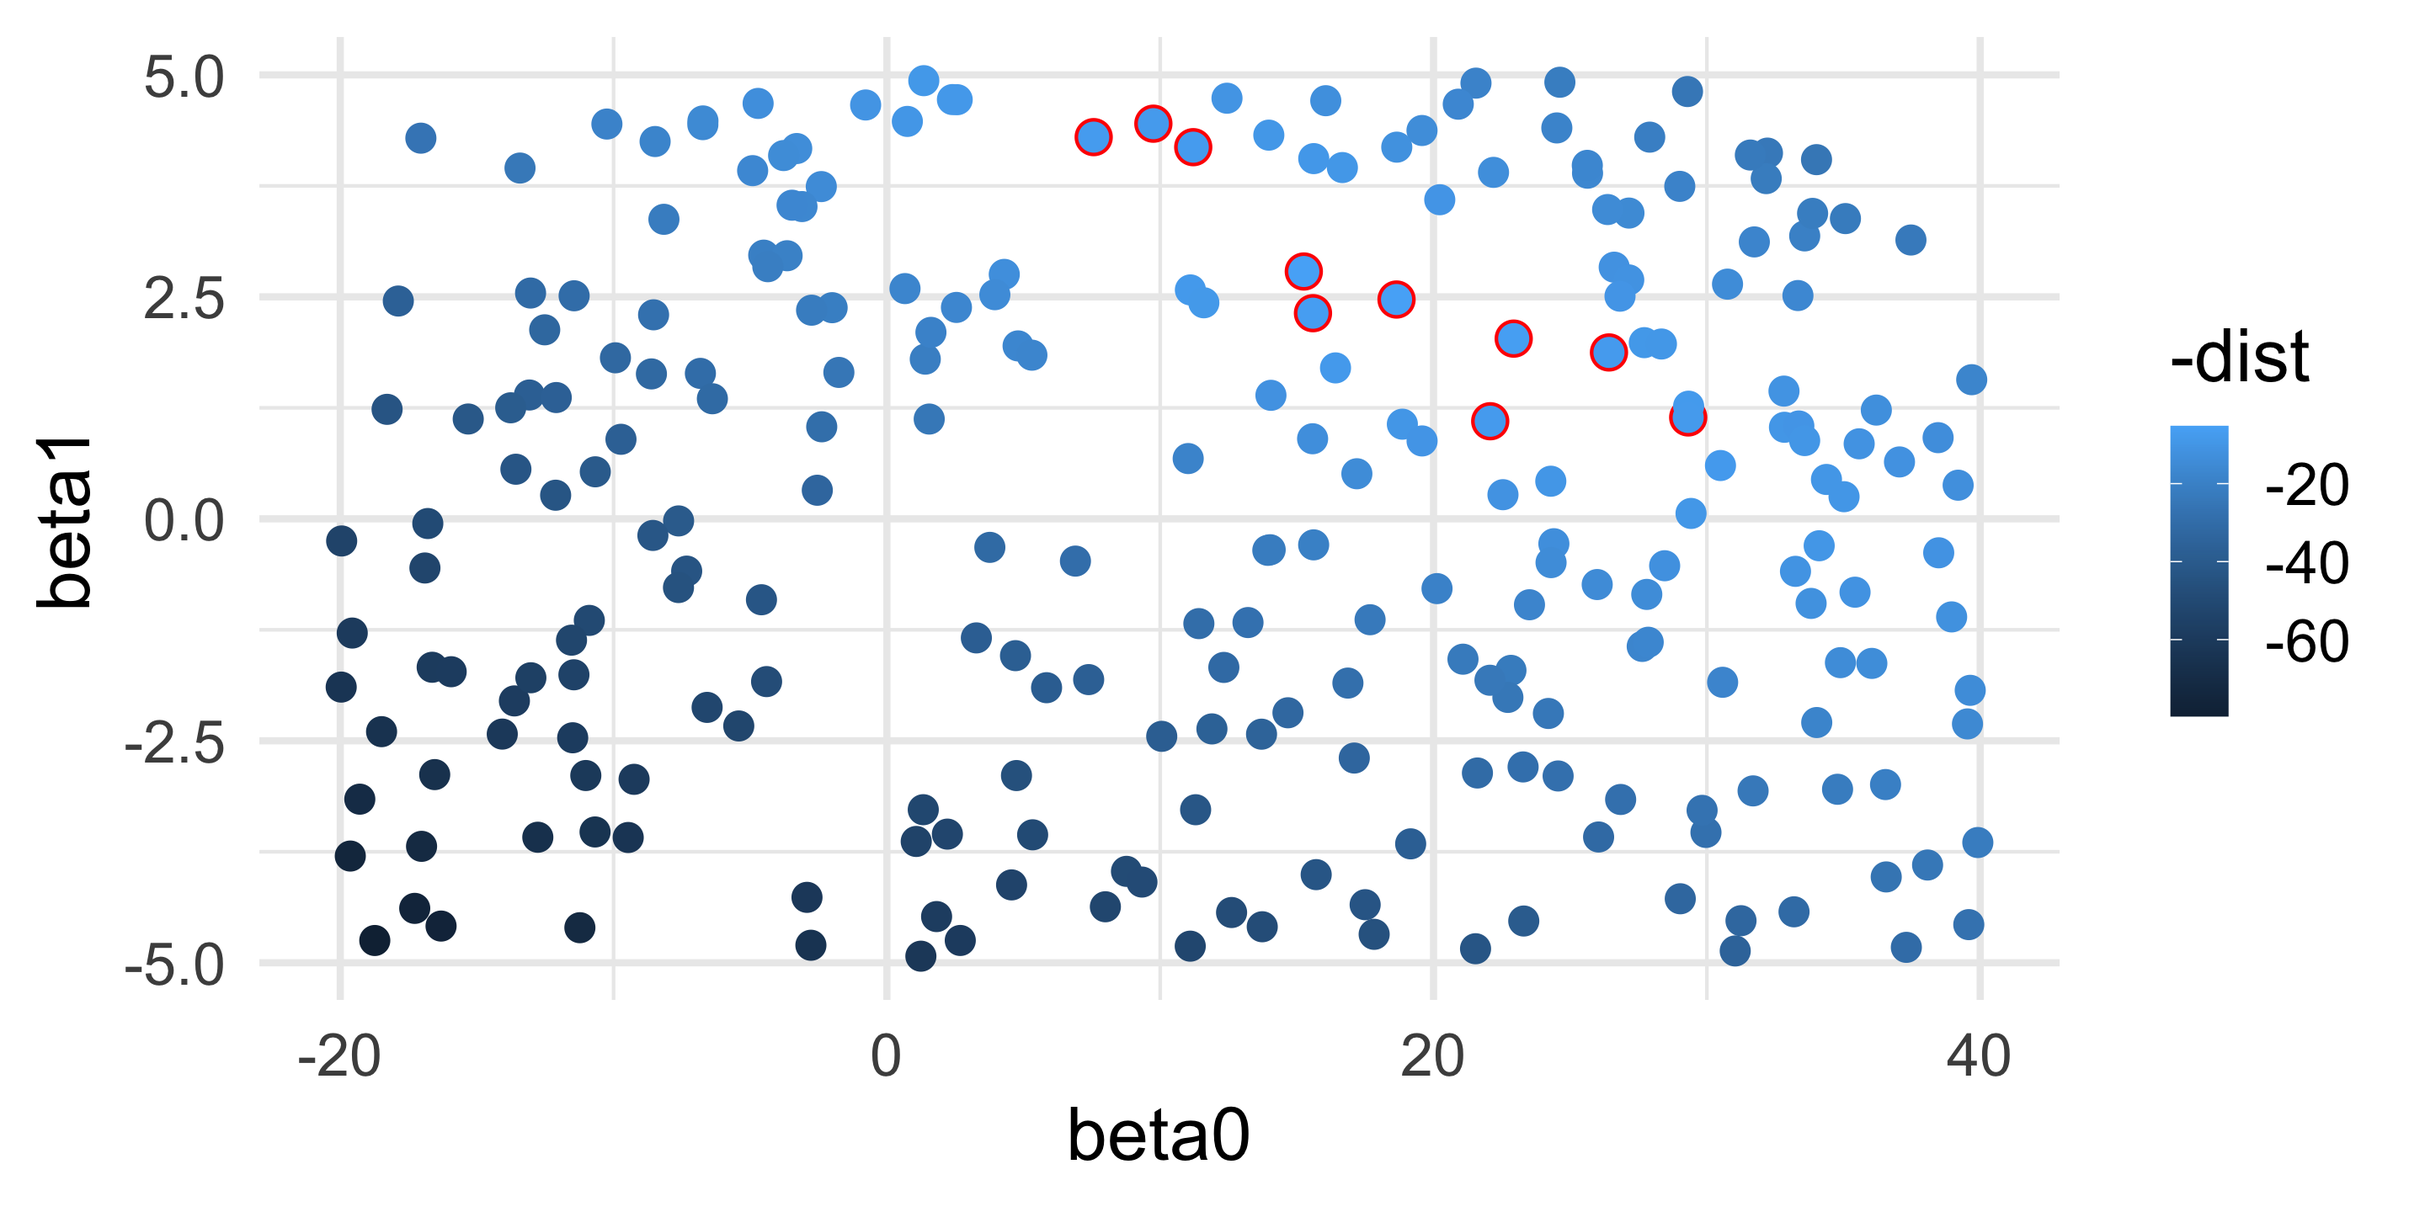
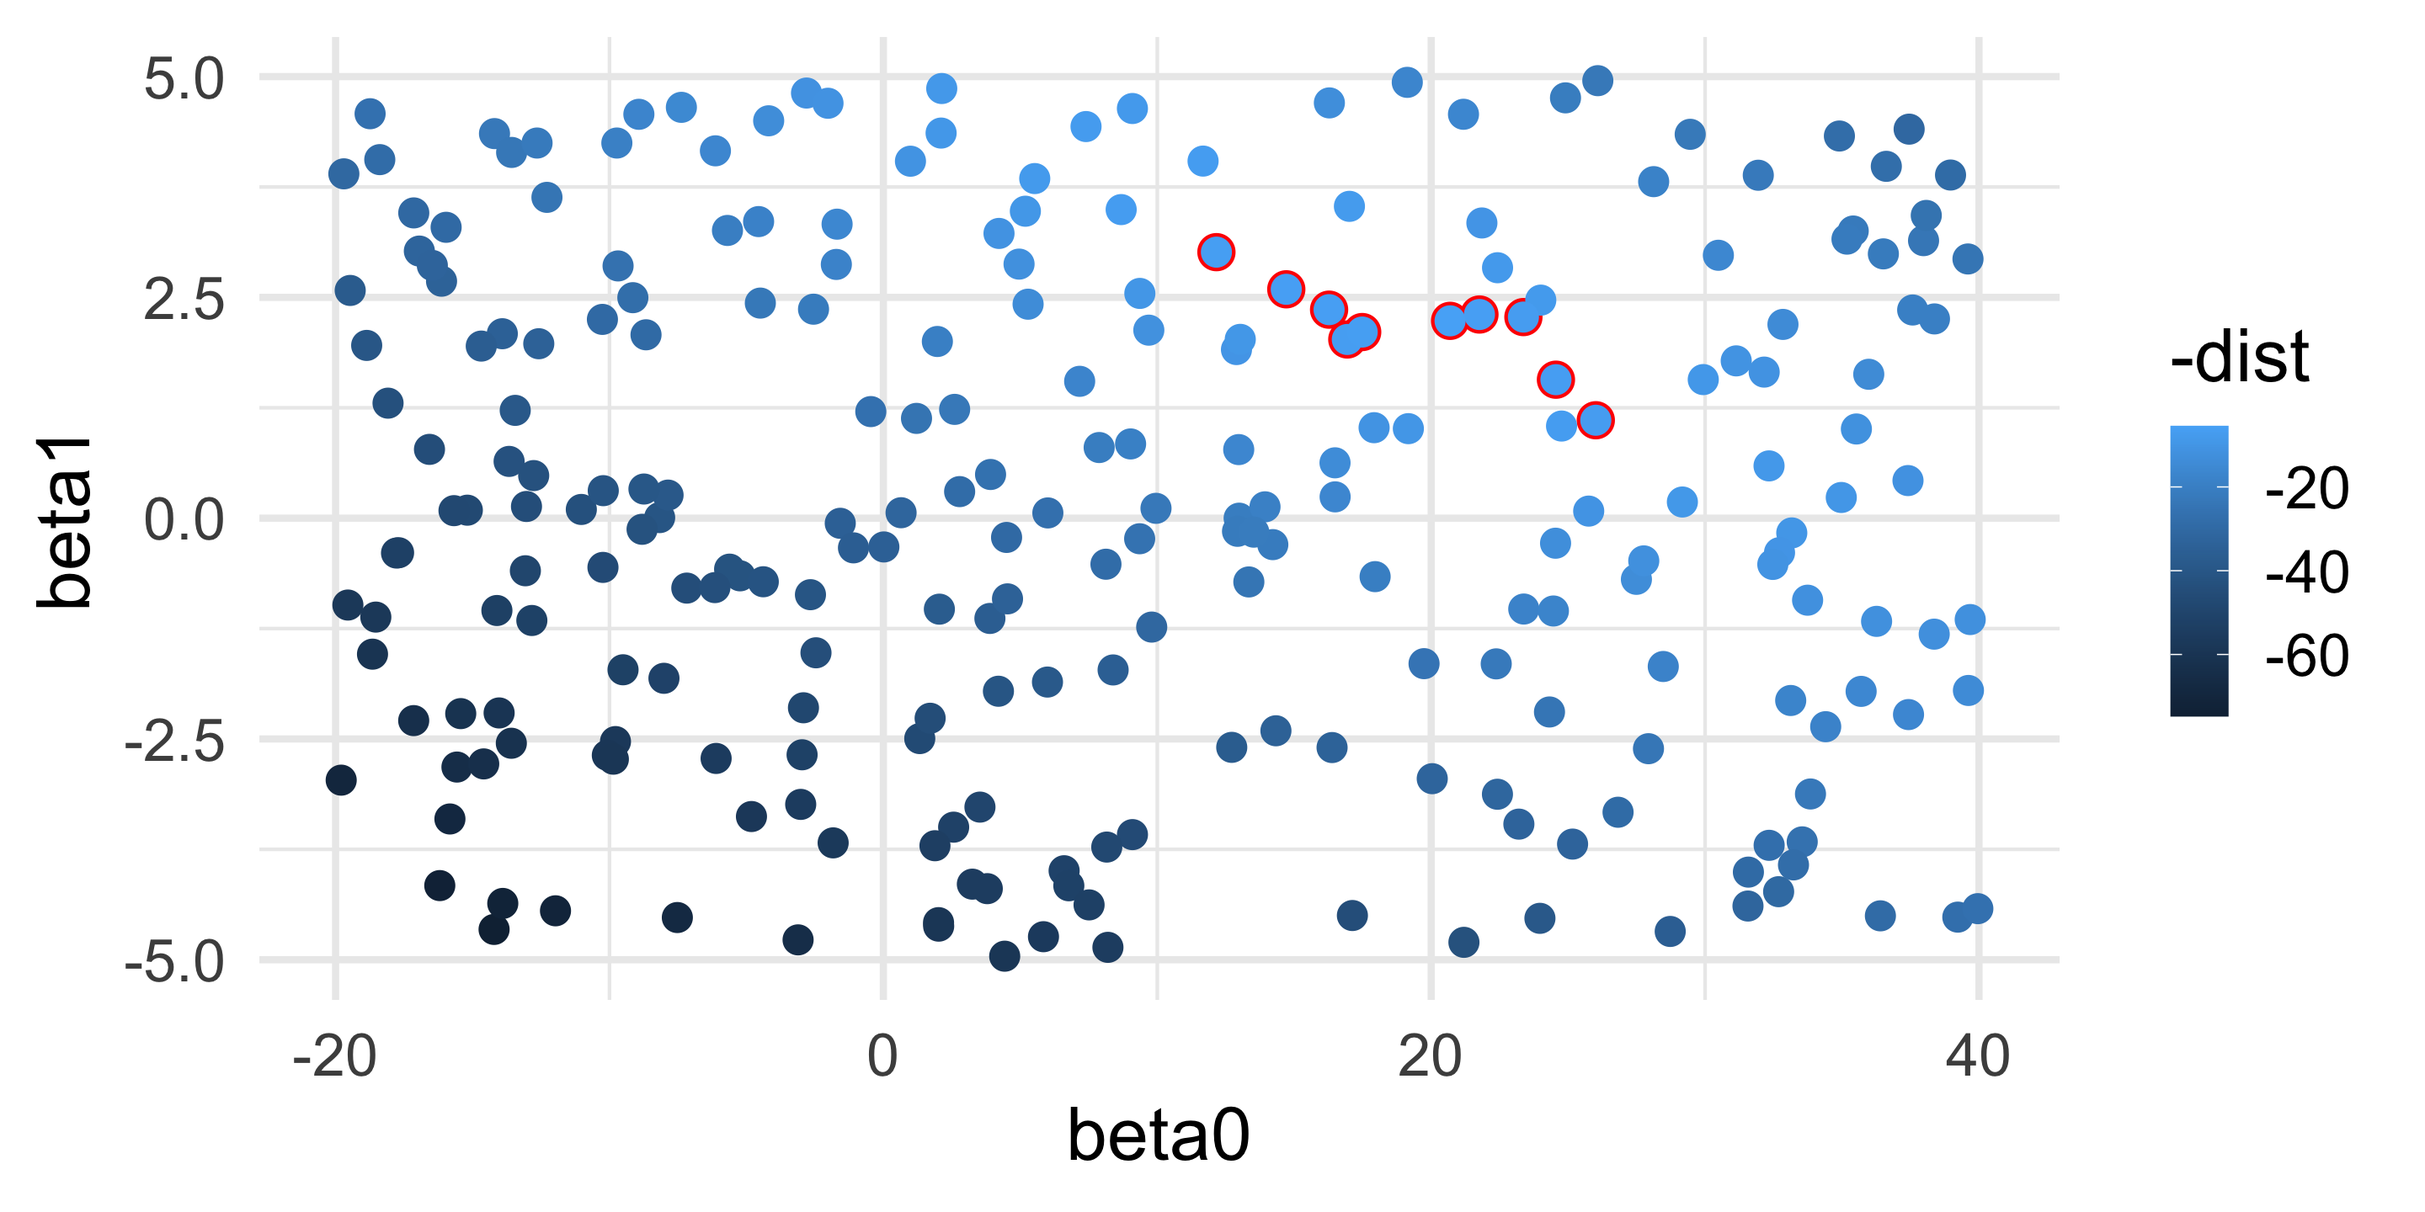
built for latest content

diff --git a/docs/narrative.html b/docs/narrative.html
@@ -183,12 +183,12 @@ y_{ij} = \beta_0 + \beta_1 x_{i} + \epsilon_j
 <span id="cb3-3"><a href="#cb3-3" aria-hidden="true" tabindex="-1"></a><span class="fu">summary</span>( models )</span></code></pre></div><button title="Copy to Clipboard" class="code-copy-button"><i class="bi"></i></button></div>
 <div class="cell-output cell-output-stdout">
 <pre><code>     beta0             beta1        
- Min.   :-19.875   Min.   :-4.9653  
- 1st Qu.: -4.385   1st Qu.:-2.1447  
- Median : 10.553   Median : 0.3414  
- Mean   : 10.170   Mean   : 0.1695  
- 3rd Qu.: 23.583   3rd Qu.: 2.4565  
- Max.   : 39.756   Max.   : 4.9824  </code></pre>
+ Min.   :-19.632   Min.   :-4.9090  
+ 1st Qu.: -7.390   1st Qu.:-2.6282  
+ Median :  7.787   Median :-0.1255  
+ Mean   :  9.506   Mean   :-0.1893  
+ 3rd Qu.: 25.397   3rd Qu.: 2.0458  
+ Max.   : 39.990   Max.   : 4.9674  </code></pre>
 </div>
 </div>
 <p>We can plot these and the original data and all these randomly defined models.</p>
@@ -239,13 +239,13 @@ y_{ij} = \beta_0 + \beta_1 x_{i} + \epsilon_j
 <span id="cb7-7"><a href="#cb7-7" aria-hidden="true" tabindex="-1"></a>}</span>
 <span id="cb7-8"><a href="#cb7-8" aria-hidden="true" tabindex="-1"></a><span class="fu">head</span>( models )</span></code></pre></div><button title="Copy to Clipboard" class="code-copy-button"><i class="bi"></i></button></div>
 <div class="cell-output cell-output-stdout">
-<pre><code>       beta0     beta1      dist
-1   4.261215 4.0189608  8.494073
-2   3.665647 0.4506872 26.843761
-3 -18.303134 1.5032448 42.206066
-4  14.649243 2.4615084  6.337056
-5 -16.415983 1.0432970 42.961465
-6   3.071799 0.9549914 24.450777</code></pre>
+<pre><code>        beta0      beta1      dist
+1  15.9563821  0.1970038 17.076792
+2  26.2156889  3.9900951 17.695627
+3  14.3826825  3.2011704  5.501376
+4  29.2525639 -0.8971011 13.587113
+5   0.8865457  0.9412975 26.629027
+6 -17.2903396  1.9302836 38.801127</code></pre>
 </div>
 </div>
 <p>If we look through these models, we can see which are better than others by sorting in increasing squared distance.</p>
@@ -538,7 +538,7 @@ F-statistic: 16.57 on 1 and 8 DF,  p-value: 0.003581</code></pre>
 <li><p>The <code>P-value</code>: Models with smaller probabilities could be considered more informative.</p></li>
 <li><p>The <span class="math inline">\(R^2\)</span>: Models that explain more of the variation may be considered more informative.</p></li>
 </ul>
-<p>Let’s start by looking at some airquality data we have played with previously when working on <a href="https://dyerlab.github.io/ENVS-Lectures/r_language/data_frames/homework.nb.html">data.frame objects</a>.</p>
+<p>Let’s start by looking at some airquality data we have played with previously when working on <a href="https://dyerlabteaching.github.io/Data-Containers/narrative.html">data.frame objects</a>.</p>
 <div class="cell">
 <div class="code-copy-outer-scaffold"><div class="sourceCode cell-code" id="cb37"><pre class="sourceCode r code-with-copy"><code class="sourceCode r"><span id="cb37-1"><a href="#cb37-1" aria-hidden="true" tabindex="-1"></a>airquality <span class="sc">%&gt;%</span></span>
 <span id="cb37-2"><a href="#cb37-2" aria-hidden="true" tabindex="-1"></a>  <span class="fu">select</span>( <span class="sc">-</span>Month, <span class="sc">-</span>Day ) <span class="ot">-&gt;</span> df.air</span>
@@ -862,42 +862,42 @@ y = \beta_0 + \beta_1 x_1 + \beta_2 x_2 + \beta_3 x_3 + \epsilon
 </tr>
 <tr class="even">
 <td style="text-align: left;">Ozone ~ Temp + Wind + Solar + 1 Random Variables</td>
-<td style="text-align: right;">0.6113</td>
+<td style="text-align: right;">0.6066</td>
 <td style="text-align: right;">0e+00</td>
 </tr>
 <tr class="odd">
 <td style="text-align: left;">Ozone ~ Temp + Wind + Solar + 2 Random Variables</td>
-<td style="text-align: right;">0.6202</td>
+<td style="text-align: right;">0.6066</td>
 <td style="text-align: right;">0e+00</td>
 </tr>
 <tr class="even">
 <td style="text-align: left;">Ozone ~ Temp + Wind + Solar + 3 Random Variables</td>
-<td style="text-align: right;">0.6344</td>
+<td style="text-align: right;">0.6131</td>
 <td style="text-align: right;">0e+00</td>
 </tr>
 <tr class="odd">
 <td style="text-align: left;">Ozone ~ Temp + Wind + Solar + 4 Random Variables</td>
-<td style="text-align: right;">0.6393</td>
+<td style="text-align: right;">0.6175</td>
 <td style="text-align: right;">0e+00</td>
 </tr>
 <tr class="even">
 <td style="text-align: left;">Ozone ~ Temp + Wind + Solar + 5 Random Variables</td>
-<td style="text-align: right;">0.6394</td>
+<td style="text-align: right;">0.6178</td>
 <td style="text-align: right;">0e+00</td>
 </tr>
 <tr class="odd">
 <td style="text-align: left;">Ozone ~ Temp + Wind + Solar + 6 Random Variables</td>
-<td style="text-align: right;">0.6419</td>
+<td style="text-align: right;">0.6180</td>
 <td style="text-align: right;">0e+00</td>
 </tr>
 <tr class="even">
 <td style="text-align: left;">Ozone ~ Temp + Wind + Solar + 7 Random Variables</td>
-<td style="text-align: right;">0.6431</td>
+<td style="text-align: right;">0.6189</td>
 <td style="text-align: right;">0e+00</td>
 </tr>
 <tr class="odd">
 <td style="text-align: left;">Ozone ~ Temp + Wind + Solar + 8 Random Variables</td>
-<td style="text-align: right;">0.6440</td>
+<td style="text-align: right;">0.6189</td>
 <td style="text-align: right;">0e+00</td>
 </tr>
 </tbody>
@@ -950,91 +950,91 @@ AIC = -2 \ln L + 2p
 <td style="text-align: left;">Ozone ~ Temp</td>
 <td style="text-align: right;">0.488</td>
 <td style="text-align: right;">1067.706</td>
-<td style="text-align: right;">71.316</td>
+<td style="text-align: right;">68.989</td>
 </tr>
 <tr class="even">
 <td style="text-align: left;">Ozone ~ Wind</td>
 <td style="text-align: right;">0.362</td>
 <td style="text-align: right;">1093.187</td>
-<td style="text-align: right;">96.797</td>
+<td style="text-align: right;">94.470</td>
 </tr>
 <tr class="odd">
 <td style="text-align: left;">Ozone ~ Solar</td>
 <td style="text-align: right;">0.121</td>
 <td style="text-align: right;">1083.714</td>
-<td style="text-align: right;">87.324</td>
+<td style="text-align: right;">84.997</td>
 </tr>
 <tr class="even">
 <td style="text-align: left;">Ozone ~ Temp + Wind</td>
 <td style="text-align: right;">0.569</td>
 <td style="text-align: right;">1049.741</td>
-<td style="text-align: right;">53.351</td>
+<td style="text-align: right;">51.024</td>
 </tr>
 <tr class="odd">
 <td style="text-align: left;">Ozone ~ Temp + Solar</td>
 <td style="text-align: right;">0.510</td>
 <td style="text-align: right;">1020.820</td>
-<td style="text-align: right;">24.430</td>
+<td style="text-align: right;">22.103</td>
 </tr>
 <tr class="even">
 <td style="text-align: left;">Ozone ~ Wind + Solar</td>
 <td style="text-align: right;">0.449</td>
 <td style="text-align: right;">1033.816</td>
-<td style="text-align: right;">37.425</td>
+<td style="text-align: right;">35.098</td>
 </tr>
 <tr class="odd">
 <td style="text-align: left;">Ozone ~ Temp + Wind + Solar</td>
 <td style="text-align: right;">0.606</td>
 <td style="text-align: right;">998.717</td>
-<td style="text-align: right;">2.327</td>
+<td style="text-align: right;">0.000</td>
 </tr>
 <tr class="even">
 <td style="text-align: left;">Ozone ~ Temp + Wind + Solar + 1 Random Variables</td>
-<td style="text-align: right;">0.611</td>
-<td style="text-align: right;">999.188</td>
-<td style="text-align: right;">2.798</td>
+<td style="text-align: right;">0.607</td>
+<td style="text-align: right;">1000.507</td>
+<td style="text-align: right;">1.790</td>
 </tr>
 <tr class="odd">
 <td style="text-align: left;">Ozone ~ Temp + Wind + Solar + 2 Random Variables</td>
-<td style="text-align: right;">0.620</td>
-<td style="text-align: right;">998.626</td>
-<td style="text-align: right;">2.236</td>
+<td style="text-align: right;">0.607</td>
+<td style="text-align: right;">1002.505</td>
+<td style="text-align: right;">3.787</td>
 </tr>
 <tr class="even">
 <td style="text-align: left;">Ozone ~ Temp + Wind + Solar + 3 Random Variables</td>
-<td style="text-align: right;">0.634</td>
-<td style="text-align: right;">996.390</td>
-<td style="text-align: right;">0.000</td>
+<td style="text-align: right;">0.613</td>
+<td style="text-align: right;">1002.681</td>
+<td style="text-align: right;">3.964</td>
 </tr>
 <tr class="odd">
 <td style="text-align: left;">Ozone ~ Temp + Wind + Solar + 4 Random Variables</td>
-<td style="text-align: right;">0.639</td>
-<td style="text-align: right;">996.886</td>
-<td style="text-align: right;">0.496</td>
+<td style="text-align: right;">0.618</td>
+<td style="text-align: right;">1003.390</td>
+<td style="text-align: right;">4.673</td>
 </tr>
 <tr class="even">
 <td style="text-align: left;">Ozone ~ Temp + Wind + Solar + 5 Random Variables</td>
-<td style="text-align: right;">0.639</td>
-<td style="text-align: right;">998.861</td>
-<td style="text-align: right;">2.471</td>
+<td style="text-align: right;">0.618</td>
+<td style="text-align: right;">1005.326</td>
+<td style="text-align: right;">6.608</td>
 </tr>
 <tr class="odd">
 <td style="text-align: left;">Ozone ~ Temp + Wind + Solar + 6 Random Variables</td>
-<td style="text-align: right;">0.642</td>
-<td style="text-align: right;">1000.085</td>
-<td style="text-align: right;">3.694</td>
+<td style="text-align: right;">0.618</td>
+<td style="text-align: right;">1007.240</td>
+<td style="text-align: right;">8.523</td>
 </tr>
 <tr class="even">
 <td style="text-align: left;">Ozone ~ Temp + Wind + Solar + 7 Random Variables</td>
-<td style="text-align: right;">0.643</td>
-<td style="text-align: right;">1001.705</td>
-<td style="text-align: right;">5.315</td>
+<td style="text-align: right;">0.619</td>
+<td style="text-align: right;">1009.006</td>
+<td style="text-align: right;">10.289</td>
 </tr>
 <tr class="odd">
 <td style="text-align: left;">Ozone ~ Temp + Wind + Solar + 8 Random Variables</td>
-<td style="text-align: right;">0.644</td>
-<td style="text-align: right;">1003.428</td>
-<td style="text-align: right;">7.038</td>
+<td style="text-align: right;">0.619</td>
+<td style="text-align: right;">1011.004</td>
+<td style="text-align: right;">12.287</td>
 </tr>
 </tbody>
 </table>

diff --git a/docs/slides.html b/docs/slides.html
@@ -242,12 +242,12 @@ y = \beta_0 + \beta_1 x_1 + \epsilon
 <span id="cb1-3"><a href=""></a><span class="fu">summary</span>( models )</span></code></pre></div><button title="Copy to Clipboard" class="code-copy-button"><i class="bi"></i></button></div>
 <div class="cell-output cell-output-stdout">
 <pre><code>     beta0             beta1         
- Min.   :-19.966   Min.   :-4.92596  
- 1st Qu.: -4.481   1st Qu.:-2.35777  
- Median : 13.459   Median : 0.15483  
- Mean   : 11.366   Mean   : 0.07472  
- 3rd Qu.: 27.147   3rd Qu.: 2.52194  
- Max.   : 39.914   Max.   : 4.93477  </code></pre>
+ Min.   :-19.796   Min.   :-4.95994  
+ 1st Qu.: -7.777   1st Qu.:-2.21131  
+ Median :  6.301   Median : 0.07079  
+ Mean   :  8.441   Mean   : 0.11166  
+ 3rd Qu.: 24.426   3rd Qu.: 2.46060  
+ Max.   : 39.958   Max.   : 4.95395  </code></pre>
 </div>
 </div>
 </div><div class="column" style="width:50%;">
@@ -290,13 +290,13 @@ y = \beta_0 + \beta_1 x_1 + \epsilon
 <span id="cb4-7"><a href=""></a>}</span>
 <span id="cb4-8"><a href=""></a><span class="fu">head</span>( models )</span></code></pre></div><button title="Copy to Clipboard" class="code-copy-button"><i class="bi"></i></button></div>
 <div class="cell-output cell-output-stdout">
-<pre><code>       beta0     beta1     dist
-1 -13.629086 -2.050811 58.43506
-2  36.536560 -2.992931 20.57853
-3 -19.285812 -3.157494 70.55561
-4 -13.080654  1.394464 37.66535
-5  38.955105 -1.104643 11.98292
-6  -4.506782  2.969804 20.59520</code></pre>
+<pre><code>      beta0     beta1     dist
+1 -7.375588  4.651977 15.61575
+2  4.200233 -1.959842 40.83772
+3  8.387190 -1.718626 35.46853
+4  2.017924 -4.619716 59.14127
+5 -9.781472 -2.529774 57.59827
+6 36.261688 -1.168502 12.23777</code></pre>
 </div>
 </div>
 </section>
@@ -917,35 +917,35 @@ y = \beta_0 + \beta_1 x_1 + \epsilon
 <tbody>
 <tr class="odd">
 <td style="text-align: left;">Ozone ~ Temp + Wind + Solar + 1 Random Variables</td>
-<td style="text-align: left;">0.6123</td>
+<td style="text-align: left;">0.6062</td>
 </tr>
 <tr class="even">
 <td style="text-align: left;">Ozone ~ Temp + Wind + Solar + 2 Random Variables</td>
-<td style="text-align: left;">0.6148</td>
+<td style="text-align: left;">0.6143</td>
 </tr>
 <tr class="odd">
 <td style="text-align: left;">Ozone ~ Temp + Wind + Solar + 3 Random Variables</td>
-<td style="text-align: left;">0.6150</td>
+<td style="text-align: left;">0.6208</td>
 </tr>
 <tr class="even">
 <td style="text-align: left;">Ozone ~ Temp + Wind + Solar + 4 Random Variables</td>
-<td style="text-align: left;">0.6152</td>
+<td style="text-align: left;">0.6296</td>
 </tr>
 <tr class="odd">
 <td style="text-align: left;">Ozone ~ Temp + Wind + Solar + 5 Random Variables</td>
-<td style="text-align: left;">0.6154</td>
+<td style="text-align: left;">0.6337</td>
 </tr>
 <tr class="even">
 <td style="text-align: left;">Ozone ~ Temp + Wind + Solar + 6 Random Variables</td>
-<td style="text-align: left;">0.6164</td>
+<td style="text-align: left;">0.6354</td>
 </tr>
 <tr class="odd">
 <td style="text-align: left;">Ozone ~ Temp + Wind + Solar + 7 Random Variables</td>
-<td style="text-align: left;">0.6165</td>
+<td style="text-align: left;">0.6354</td>
 </tr>
 <tr class="even">
 <td style="text-align: left;">Ozone ~ Temp + Wind + Solar + 8 Random Variables</td>
-<td style="text-align: left;">0.6168</td>
+<td style="text-align: left;">0.6404</td>
 </tr>
 </tbody>
 </table>
@@ -1035,51 +1035,51 @@ y = \beta_0 + \beta_1 x_1 + \epsilon
 </tr>
 <tr class="even">
 <td style="text-align: left;">Ozone ~ Temp + Wind + Solar + 1 Random Variables</td>
-<td style="text-align: right;">0.612</td>
-<td style="text-align: right;">998.892</td>
-<td style="text-align: right;">0.175</td>
+<td style="text-align: right;">0.606</td>
+<td style="text-align: right;">1000.618</td>
+<td style="text-align: right;">1.901</td>
 </tr>
 <tr class="odd">
 <td style="text-align: left;">Ozone ~ Temp + Wind + Solar + 2 Random Variables</td>
-<td style="text-align: right;">0.615</td>
-<td style="text-align: right;">1000.184</td>
-<td style="text-align: right;">1.467</td>
+<td style="text-align: right;">0.614</td>
+<td style="text-align: right;">1000.338</td>
+<td style="text-align: right;">1.621</td>
 </tr>
 <tr class="even">
 <td style="text-align: left;">Ozone ~ Temp + Wind + Solar + 3 Random Variables</td>
-<td style="text-align: right;">0.615</td>
-<td style="text-align: right;">1002.118</td>
-<td style="text-align: right;">3.401</td>
+<td style="text-align: right;">0.621</td>
+<td style="text-align: right;">1000.436</td>
+<td style="text-align: right;">1.719</td>
 </tr>
 <tr class="odd">
 <td style="text-align: left;">Ozone ~ Temp + Wind + Solar + 4 Random Variables</td>
-<td style="text-align: right;">0.615</td>
-<td style="text-align: right;">1004.077</td>
-<td style="text-align: right;">5.360</td>
+<td style="text-align: right;">0.630</td>
+<td style="text-align: right;">999.833</td>
+<td style="text-align: right;">1.116</td>
 </tr>
 <tr class="even">
 <td style="text-align: left;">Ozone ~ Temp + Wind + Solar + 5 Random Variables</td>
-<td style="text-align: right;">0.615</td>
-<td style="text-align: right;">1006.006</td>
-<td style="text-align: right;">7.289</td>
+<td style="text-align: right;">0.634</td>
+<td style="text-align: right;">1000.606</td>
+<td style="text-align: right;">1.889</td>
 </tr>
 <tr class="odd">
 <td style="text-align: left;">Ozone ~ Temp + Wind + Solar + 6 Random Variables</td>
-<td style="text-align: right;">0.616</td>
-<td style="text-align: right;">1007.715</td>
-<td style="text-align: right;">8.998</td>
+<td style="text-align: right;">0.635</td>
+<td style="text-align: right;">1002.094</td>
+<td style="text-align: right;">3.377</td>
 </tr>
 <tr class="even">
 <td style="text-align: left;">Ozone ~ Temp + Wind + Solar + 7 Random Variables</td>
-<td style="text-align: right;">0.616</td>
-<td style="text-align: right;">1009.694</td>
-<td style="text-align: right;">10.977</td>
+<td style="text-align: right;">0.635</td>
+<td style="text-align: right;">1004.086</td>
+<td style="text-align: right;">5.369</td>
 </tr>
 <tr class="odd">
 <td style="text-align: left;">Ozone ~ Temp + Wind + Solar + 8 Random Variables</td>
-<td style="text-align: right;">0.617</td>
-<td style="text-align: right;">1011.607</td>
-<td style="text-align: right;">12.889</td>
+<td style="text-align: right;">0.640</td>
+<td style="text-align: right;">1004.536</td>
+<td style="text-align: right;">5.819</td>
 </tr>
 </tbody>
 </table>
